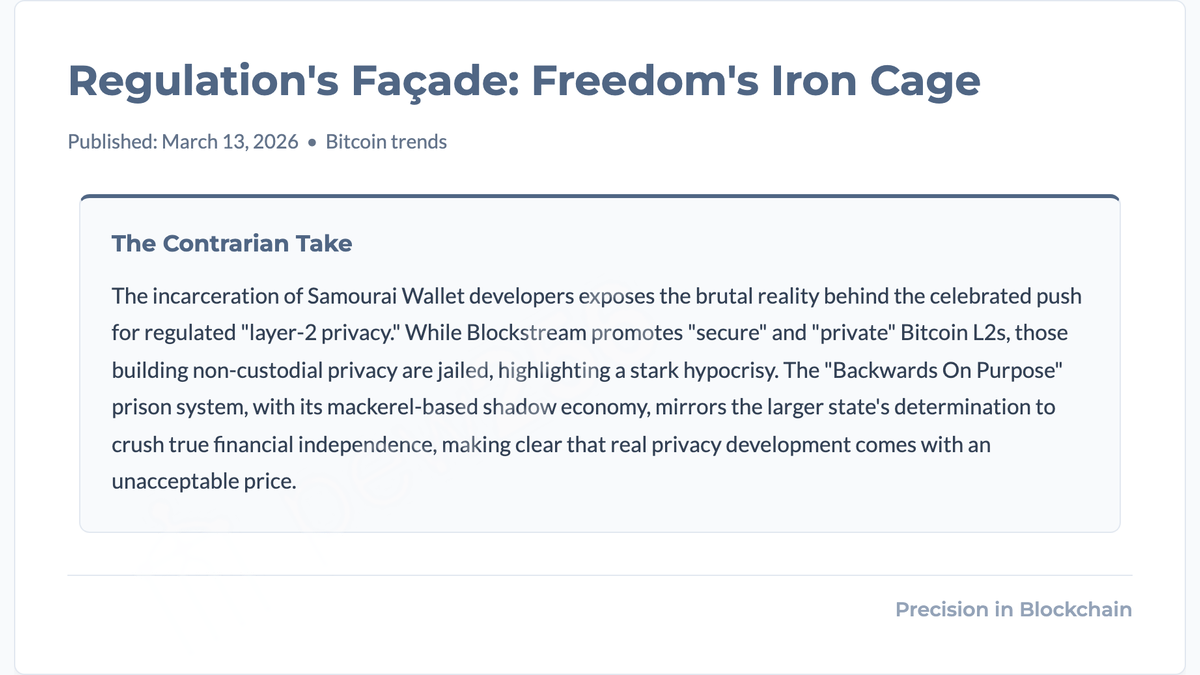
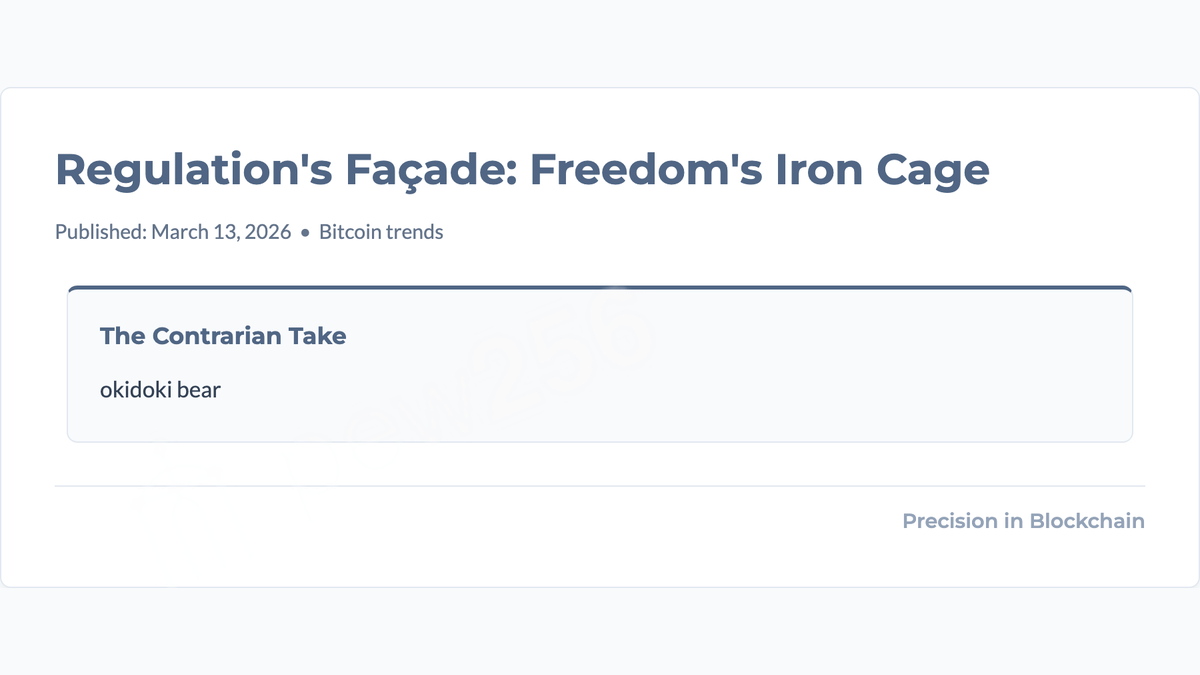
Auto-publish insight HTML and Images atomically

diff --git a/insights/ig-con-20260313_132904.html b/insights/ig-con-20260313_132904.html
@@ -8,7 +8,7 @@
     <!-- OpenGraph / LinkedIn / WeChat / WhatsApp -->
     <meta property="og:title" content="Regulation's Façade: Freedom's Iron Cage | pew256">
     <meta property="og:description" content="okidoki bear">
-    <meta property="og:image" content="https://pew256.com/assets/shares/con-20260313_132904_twitter.png?v=1773407511">
+    <meta property="og:image" content="https://pew256.com/assets/shares/con-20260313_132904_vertical.png?v=1773407511">
     <meta property="og:image" content="https://pew256.com/assets/brand-kit/og_social_preview_1.png">
     <meta property="og:type" content="article">
     
@@ -16,7 +16,7 @@
     <meta name="twitter:card" content="summary_large_image">
     <meta name="twitter:title" content="Regulation's Façade: Freedom's Iron Cage | pew256">
     <meta name="twitter:description" content="okidoki bear">
-    <meta name="twitter:image" content="https://pew256.com/assets/shares/con-20260313_132904_twitter.png?v=1773407511">
+    <meta name="twitter:image" content="https://pew256.com/assets/shares/con-20260313_132904_vertical.png?v=1773407511">
     
     <script>
         // Redirect human visitors to the correct section of the main app

diff --git a/insights/wechat-con-20260313_132904.html b/insights/wechat-con-20260313_132904.html
@@ -8,7 +8,7 @@
     <!-- OpenGraph / LinkedIn / WeChat / WhatsApp -->
     <meta property="og:title" content="Regulation's Façade: Freedom's Iron Cage | pew256">
     <meta property="og:description" content="okidoki bear">
-    <meta property="og:image" content="https://pew256.com/assets/shares/con-20260313_132904_twitter.png?v=1773407511">
+    <meta property="og:image" content="https://pew256.com/assets/shares/con-20260313_132904_square.png?v=1773407511">
     <meta property="og:image" content="https://pew256.com/assets/brand-kit/og_social_preview_1.png">
     <meta property="og:type" content="article">
     
@@ -16,7 +16,7 @@
     <meta name="twitter:card" content="summary_large_image">
     <meta name="twitter:title" content="Regulation's Façade: Freedom's Iron Cage | pew256">
     <meta name="twitter:description" content="okidoki bear">
-    <meta name="twitter:image" content="https://pew256.com/assets/shares/con-20260313_132904_twitter.png?v=1773407511">
+    <meta name="twitter:image" content="https://pew256.com/assets/shares/con-20260313_132904_square.png?v=1773407511">
     
     <script>
         // Redirect human visitors to the correct section of the main app

diff --git a/insights/og-con-20260313_132904.html b/insights/og-con-20260313_132904.html
@@ -8,7 +8,7 @@
     <!-- OpenGraph / LinkedIn / WeChat / WhatsApp -->
     <meta property="og:title" content="Regulation's Façade: Freedom's Iron Cage | pew256">
     <meta property="og:description" content="okidoki bear">
-    <meta property="og:image" content="https://pew256.com/assets/shares/con-20260313_132904_twitter.png?v=1773407511">
+    <meta property="og:image" content="https://pew256.com/assets/shares/con-20260313_132904_og.png?v=1773407511">
     <meta property="og:image" content="https://pew256.com/assets/brand-kit/og_social_preview_1.png">
     <meta property="og:type" content="article">
     
@@ -16,7 +16,7 @@
     <meta name="twitter:card" content="summary_large_image">
     <meta name="twitter:title" content="Regulation's Façade: Freedom's Iron Cage | pew256">
     <meta name="twitter:description" content="okidoki bear">
-    <meta name="twitter:image" content="https://pew256.com/assets/shares/con-20260313_132904_twitter.png?v=1773407511">
+    <meta name="twitter:image" content="https://pew256.com/assets/shares/con-20260313_132904_og.png?v=1773407511">
     
     <script>
         // Redirect human visitors to the correct section of the main app
